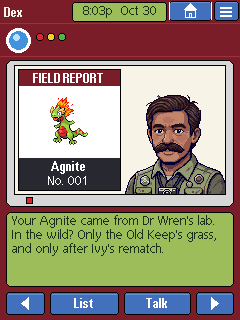
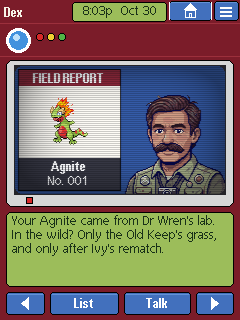
Dex plan: the upper screen is a TV, and the marks are diamonds
The owner's decisions on the design; nothing is built yet.

- The upper screen goes from cream to TV blue with a light CRT effect on
  that box alone: a soft sideways glow, scanlines, dark corners and a
  rounded tube. area512's filter was tried first and was too strong for
  the Palm font on this panel.
- A card on the screen keeps its own background, cream for now.
- Caught and seen are a solid and a hollow gold diamond, replacing the
  red and white ball.
- The speaker's backdrop is now TV blue. Mock-ups 2-8 are redrawn.

Claude-Session: https://claude.ai/code/session_01P3vCQf1U6gboGE6usdF48E

Changed region(s): [[0.0583, 0.1875, 0.9625, 0.625]]

diff --git a/tools/mock_dex.py b/tools/mock_dex.py
@@ -20,6 +20,10 @@ RED, RED_HI = (123, 28, 41), (156, 48, 60)
 GREY, BLACK, WHITE = (214, 215, 214), (0, 0, 0), (255, 255, 255)
 CREAM, GREEN, INK = (247, 243, 231), (156, 189, 90), (24, 48, 24)
 KEY, KEY_HI = (66, 112, 189), (99, 146, 214)
+# The upper screen is a TV (DEX_PLAN 2.4). Cards on it keep the cream as their own.
+TV, TV_INK, TV_DIM = (38, 70, 140), (244, 244, 236), (170, 192, 232)
+TV_SIL, TV_WELL = (12, 24, 60), (36, 36, 40)
+TV_RADIUS, TV_BLOOM, TV_SCAN, TV_VIGNETTE, TV_LIFT = 7, 0.30, 0.80, 0.35, (5, 6, 9)
 
 # The fixed geometry: x0, y0, x1, y1, inclusive.
 UPPER = (15, 66, 224, 193)   # 210 x 128: the tallest critter at 2x just fits
@@ -97,7 +101,8 @@ def bezel():
                 p[x, y] = CREAM if x < 30 else INK if x < 160 else WHITE
     d.line((0, 56, 239, 56), fill=RED_HI)
     chamfer(d, 6, 60, 233, 206, GREY, 4)
-    d.rectangle((14, 65, 225, 194), fill=CREAM, outline=BLACK)
+    d.rectangle((14, 65, 225, 194), fill=TV_WELL)
+    d.rectangle(UPPER, fill=TV)
     d.rectangle((26, 197, 32, 203), fill=(214, 41, 41), outline=BLACK)   # the light
     chamfer(d, 6, 212, 233, 286, GREEN, 3)
     for x0, x1, label in KEYS:
@@ -113,19 +118,45 @@ def bezel():
     return im, d
 
 
-def ball(d, x, y, caught):
-    d.ellipse((x, y, x + 9, y + 9), fill=WHITE, outline=BLACK)
+def mark(d, x, y, caught):
+    """The Dex's own marks, 11x11: caught is a solid gold diamond, seen a hollow one."""
+    pts = [(x + 5, y), (x + 10, y + 5), (x + 5, y + 10), (x, y + 5)]
     if caught:
-        d.pieslice((x, y, x + 9, y + 9), 180, 360, fill=(214, 41, 41), outline=BLACK)
-        d.line((x, y + 5, x + 9, y + 5), fill=BLACK)
-        d.rectangle((x + 4, y + 4, x + 5, y + 5), fill=WHITE)
+        d.polygon(pts, fill=(250, 196, 48), outline=TV_SIL)
+        d.line((x + 3, y + 4, x + 4, y + 3), fill=WHITE)   # a glint
+    else:
+        d.polygon(pts, fill=TV, outline=TV_INK)
 
 
-def silhouette(s, col=(64, 64, 64)):
+def silhouette(s, col=TV_SIL):
     a = s.getchannel("A").point(lambda v: 255 if v else 0)
     o = Image.new("RGBA", s.size, col + (255,))
     o.putalpha(a)
     return o
+
+
+def tube(im):
+    """The TV effect, on the finished upper screen only: a soft sideways glow,
+    dark odd rows and dark corners, each pixel reading only its own row. Then
+    the tube's rounded corners, with the dark well showing outside them."""
+    w, h = UPPER[2] - UPPER[0] + 1, UPPER[3] - UPPER[1] + 1
+    src = im.crop((UPPER[0], UPPER[1], UPPER[2] + 1, UPPER[3] + 1))
+    a, out = src.load(), Image.new("RGB", (w, h))
+    o = out.load()
+    for y in range(h):
+        scan = TV_SCAN if y % 2 else 1.0
+        dy = (y - (h - 1) / 2) / (h / 2)
+        for x in range(w):
+            dx = (x - (w - 1) / 2) / (w / 2)
+            f = scan * (1 - TV_VIGNETTE * min(dx ** 4 + dy ** 4, 1))
+            lf, rt = a[max(x - 1, 0), y], a[min(x + 1, w - 1), y]
+            o[x, y] = tuple(min(255, int((v + TV_BLOOM * (l + r) / 2 * (255 - v) / 255) * f + k))
+                            for v, l, r, k in zip(a[x, y], lf, rt, TV_LIFT))
+    mask = Image.new("L", (w, h), 0)
+    ImageDraw.Draw(mask).rounded_rectangle((0, 0, w - 1, h - 1), TV_RADIUS, fill=255)
+    d = ImageDraw.Draw(im)
+    d.rectangle(UPPER, fill=TV_WELL)
+    im.paste(out, UPPER[:2], mask)
 
 
 def lower_text(im, lines, x=None, w=None):
@@ -158,15 +189,15 @@ def list_screen(sheets):
             (4, "anoleaf", "Anoleaf", 2), (5, "agnidon", "???", 1)]
     y = UPPER[1] + 4
     for n, slug, name, state in rows:
-        PALM.draw(im, 19, y + 5, "%03d" % n)
+        PALM.draw(im, 19, y + 5, "%03d" % n, TV_INK)
         if slug:
             ic = sheets(slug).crop((0, 64, 24, 88))
             if state == 1:
                 ic = silhouette(ic)
             im.paste(ic, (44, y), ic)
-        PALM.draw(im, 74, y + 5, name)
+        PALM.draw(im, 74, y + 5, name, TV_INK)
         if state:
-            ball(d, 202, y + 7, state == 2)
+            mark(d, 202, y + 7, state == 2)
         y += 24
     d.rectangle((216, UPPER[1] + 1, 222, UPPER[3] - 1), fill=WHITE, outline=BLACK)
     d.rectangle((217, UPPER[1] + 2, 221, UPPER[1] + 19), fill=BLACK)
@@ -187,20 +218,20 @@ def entry(sheets, slug, x=0, state=2):
         s2 = s.resize((128, 128), Image.NEAREST)
         im.paste(s2, (UPPER[0], UPPER[1]), s2)
     else:
-        BIG.draw(im, 70, 115, "?")
+        BIG.draw(im, 70, 115, "?", TV_INK)
     tx = 147
-    BOLD.draw(im, tx, 74, "No. 001" if state == 2 else "No. 005" if state == 1 else "No. 006")
-    BOLD.draw(im, tx, 90, "Agnite" if state == 2 else "???")
+    BOLD.draw(im, tx, 74, "No. 001" if state == 2 else "No. 005" if state == 1 else "No. 006", TV_INK)
+    BOLD.draw(im, tx, 90, "Agnite" if state == 2 else "???", TV_INK)
     if state == 2:
-        d.rectangle((tx, 108, tx + 32, 123), fill=(224, 96, 48), outline=BLACK)
+        d.rectangle((tx, 108, tx + 32, 123), fill=(224, 96, 48), outline=TV_INK)
         BOLD.draw(im, tx + 4, 109, "FIRE", WHITE)
-        PALM.draw(im, tx, 128, "Lv 24 to")
-        PALM.draw(im, tx, 142, "Agnidon")
-        ball(d, tx, 161, True)
-        PALM.draw(im, tx + 13, 158, "caught")
-        PALM.draw(im, tx, 176, "Back" if x else "Front", (90, 90, 90))
+        PALM.draw(im, tx, 128, "Lv 24 to", TV_INK)
+        PALM.draw(im, tx, 142, "Agnidon", TV_INK)
+        mark(d, tx, 161, True)
+        PALM.draw(im, tx + 13, 158, "caught", TV_INK)
+        PALM.draw(im, tx, 176, "Back" if x else "Front", TV_DIM)
     else:
-        PALM.draw(im, tx, 108, "seen" if state == 1 else "never seen")
+        PALM.draw(im, tx, 108, "seen" if state == 1 else "never seen", TV_INK)
     return im
 
 
@@ -217,7 +248,7 @@ def speaker(im, d, colour, head):
     is on a card to his left, like a news report's. Returns the card's inside."""
     im.paste(colour, (UPPER[2] + 1 - colour.width, UPPER[3] + 1 - colour.height))
     x0, y0, x1, y1 = UPPER[0] + 3, UPPER[1] + 3, UPPER[2] - colour.width - 2, UPPER[3] - 3
-    d.rectangle((x0, y0, x1, y1), fill=WHITE, outline=BLACK)
+    d.rectangle((x0, y0, x1, y1), fill=CREAM, outline=BLACK)   # a card has its own background
     d.rectangle((x0 + 1, y0 + 1, x1 - 1, y0 + 16), fill=RED)
     BOLD.draw(im, (x0 + x1 - BOLD.width(head)) // 2, y0 + 2, head, WHITE)
     return x0 + 1, y0 + 17, x1 - 1, y1 - 1
@@ -241,7 +272,10 @@ def main():
     args = a.parse_args()
     sheets = Sheets(args.tuxemon)
     colour = Image.open(os.path.join(OUT, "speaker/colour_102.png")).convert("RGB")
-    save = lambda im, n: im.save(os.path.join(OUT, n), optimize=True)
+
+    def save(im, n):
+        tube(im)
+        im.save(os.path.join(OUT, n), optimize=True)
 
     im, d = bezel()                                        # opening
     box = speaker(im, d, colour, "YOUR DEX")

diff --git a/docs/DEX_PLAN.md b/docs/DEX_PLAN.md
@@ -13,11 +13,15 @@
 > subscreens too, so the speech bubble and portrait overlay of Coach and Guru
 > **aren't used**. The owner supplied the speaker's art. §9 has the decisions,
 > all made.
+>
+> **The owner's decision (2026-11-03):** the upper screen is a **TV**: TV blue,
+> with a light CRT effect on that box alone (§2.4). A card on it keeps its own
+> background.
 
 The mock-ups are in `docs/img/dex/`. They're 240×320, the device's size,
 drawn by `tools/mock_dex.py` (a design aid, not product code) with the
-firmware's Palm fonts and the Critters screens' colours. Mock-up 1 is from the
-first design and is still right.
+firmware's Palm fonts and the Critters screens' colours, with the §2.4 effect
+applied. Mock-up 1 is from the first design and is still right.
 
 | | | | |
 |---|---|---|---|
@@ -58,7 +62,7 @@ picture but are drawn our own way. It's a full-screen page like Study and Guru
 | **The title bar, as hardware** | 0–239, 0–23 | Same layout and dimensions as the system's; see below |
 | The top strip: a lens and three lights | 0–239, 24–59 | No text. "No. 001" and the counts moved into the subscreens |
 | The upper bezel, with one red light | 6–233, 60–206 | Grey, with clipped corners |
-| **The upper screen**: cream, in colour | 15–224, 66–193 (**210×128**) | |
+| **The upper screen**: a TV, blue, in colour (§2.4) | 15–224, 66–193 (**210×128**) | |
 | **The lower screen**: green, in one ink colour | 7–232, 213–285 (**226×73**) | Five lines of text |
 | **The four keys** | y 292–314 | **◀ List Talk ▶**, always these labels |
 
@@ -120,7 +124,7 @@ was also a confusing label, since it looks like a way out.
 3. **The list** (mock-up 3).
    - **Upper screen:** rows of 24 px, the icon's height, so **five fit on a
      page**. Each shows the number, the critter's 24×24 icon, the name, and a
-     mark: a filled capture ball for caught, a ring for seen. A Palm scroll bar
+     mark: a solid gold diamond for caught, a hollow one for seen (§2.4). A Palm scroll bar
      shows the position.
    - A seen critter's icon is its silhouette, and its name is ???. A
      never-seen critter has no icon.
@@ -144,8 +148,69 @@ was also a confusing label, since it looks like a way out.
 must fit in the three lines left under the category and the height and weight.
 His lines get all five.
 
-The capture ball and the casing are our drawings. No logo, name or artwork
+The caught and seen marks and the casing are our drawings. No logo, name or artwork
 from the reference picture or the games it shows is used.
+
+### 2.4 The upper screen is a TV
+
+The owner's decision, 2026-11-03: the cream box didn't feel enough like a
+screen. It's now TV blue with a light CRT effect, chosen from the mock-up
+comparison. The lower screen stays a green LCD, so the two read as different
+parts of the gadget.
+
+**The colours**
+
+| What | RGB |
+|---|---|
+| The screen's background | 38, 70, 140 |
+| Its text | 244, 244, 236 |
+| Its dim text ("Front", "Back") | 170, 192, 232 |
+| A seen critter's silhouette | 12, 24, 60 |
+| The dark well round the tube | 36, 36, 40 |
+| The caught mark: a solid diamond, 11×11, with a small white glint | Gold 250, 196, 48, outlined 12, 24, 60 |
+| The seen mark: the same diamond, hollow | Outlined 244, 244, 236 |
+
+**A card keeps its own background, never TV blue.** Today that's the speaker's
+news card (§3): cream (247, 243, 231) with black text, like a printed card held
+up in a broadcast. Any later card follows the same rule.
+
+**The effect** runs on the whole box, cards and portrait included, after
+LVGL has drawn it. Nothing is drawn differently for it.
+
+| Part | Amount |
+|---|---|
+| Sideways glow | Each pixel gains 30% of the average of its left and right neighbours, scaled by how much room it has left below 255 |
+| Scanlines | Every odd row of the box × 0.80 |
+| Dark corners | × (1 − 0.35 × min(dx⁴ + dy⁴, 1)), with dx and dy from −1 to 1 across the box |
+| Black lift | Add 5, 6, 9 to red, green, blue, after the above |
+
+The corners of the box are rounded at radius 7, with the well outside them.
+`tools/mock_dex.py` has the exact sums.
+
+**Where it runs.** In `flush_cb`, on the part of each strip inside the box,
+before the byte swap. Each pixel reads only its own row, so it needs no copy of
+the box and no history across LVGL's 40-row strips.
+
+- **A change in the box redraws the whole box,** or the glow leaves a seam at
+  the edge of a partial redraw. That's 26,880 pixels over about four strips,
+  **speed to be measured in D2**.
+- **The device and the simulator share the filter.** They have separate
+  `flush_cb`s, so it's one function both call, on only while the Dex is open.
+- **It isn't a copy of area512's filter** (`components/area512_hal/gfx/area512_crt.cpp`
+  in `emu-commits/area512`), which we tried first. Its colour fringes made the
+  Palm font hard to read, and its 3-pixel stripes would be about 1.7× coarser on
+  this panel (about 143 pixels per inch against the Cardputer's 241). It also
+  reads neighbouring rows, which would mean holding the box in memory (54 KB) or
+  keeping history across strips.
+
+**Critters on blue.** Measured on the 46 fronts, a median of 11% of a critter's
+edge pixels are under 1.5:1 contrast with the background. The worst are Anoleaf
+(87%) and Fluttaflap (71%), against 0% and 32% at worst on cream. **The mock-ups
+don't show either one's sprite at full size yet; look at them on the panel in D4.**
+
+**The strength is checked on the panel first.** The scanlines are the part most
+likely to look different on the real screen. At the start of D2, a test screen
+shows the box at two or three strengths for the owner to choose from.
 
 ## 3) The speaker
 
@@ -153,16 +218,16 @@ from the reference picture or the games it shows is used.
 dark-skinned man with a moustache in a khaki field vest, with badges and a
 camera. It's pixel art on a grid of about 9.9 px in a 1024 px picture, so it's
 really **102×102**. `docs/img/dex/speaker/colour_102.png` is that grid sampled
-back to its pixels, with the backdrop set to the screen's cream and 24 colours
+back to its pixels, with the backdrop set to the screen's TV blue and 24 colours
 left. **It's in colour by the owner's choice:** a one-ink portrait can't show a
-character who isn't light-skinned. It hasn't been edited by hand, and from now
+character who isn't light-skinned. Only its backdrop has been changed since, and from now
 on that PNG is the art: edit it directly, and don't sample it from the JPEG again.
 
 **His place, whenever he's talking** (mock-ups 2 and 8):
 
 - **Upper screen:** he stands **against the right side**, at 1×, 102×102, on
   the screen's bottom edge. What he's talking about is on a **card to his left,
-  like a news report's**: 103×122, with a red heading band.
+  like a news report's**: 103×122, cream with black text (its own background, §2.4), with a red heading band.
   - Opening: **YOUR DEX**, with the caught and seen counts.
   - On an entry: **FIELD REPORT**, with the critter's sprite at 1× and a caption
     band under it with its name and number. A seen critter shows its silhouette
@@ -300,6 +365,7 @@ the heap is given back, as they do for Study.
 | `firmware/main/monster_play.c`, `.h` | The marks, save version 4, and loading a version 3 save. |
 | `firmware/main/palm_icons.c` | `icon_dex`, from `tools/gen_dex_icon.py`. |
 | `firmware/main/palm_icons.c` | The speaker's portrait: an RGB565 image from a small generator, `tools/gen_dex_speaker.py`, which reads `colour_102.png` 1:1 and is checked in the `dex` gate. |
+| `firmware/main/lvgl_port.c`, `sim/sim_port.c` | Both `flush_cb`s call the one TV filter on the upper screen while the Dex is open (§2.4). |
 | `tools/mock_dex.py` | Draws the mock-ups. Not product code. |
 | `tools/mkgame.py` | Format 2.2: `DEXE` and `ICON`, the `"dex"` order, the description source, and the dump. |
 | `tools/game_region.json` | The `"dex"` order and the 14 written descriptions. |
@@ -344,14 +410,17 @@ the heap is given back, as they do for Study.
   descriptions), save version 4 with the marks, `make -C sim dex` for the
   marks, and the dumps.
 - **D2, the app.** The fixed bezel and keys, `dex.c` and the screens, the Games
-  icon, the smoke shots, and the Where search. His lines are placeholders.
+  icon, the smoke shots, and the Where search. His lines are placeholders. It
+  starts with the TV filter's test screen for the owner (§2.4), and measures a
+  full redraw of the box.
 - **D3, the speaker.** The portrait and the news card, the lines, their fit gate,
   and the measured heap.
 - **D4, the bench.** The owner's `[d]` items: the Dex opens from the folder;
   a caught critter shows in full after a save; a v3 save keeps its party in
   the Dex; the heap is unchanged after closing; ◀ ▶ are fast enough on the
   board; the keys are easy to hit; the portrait and the green clock read well on
-  the panel.
+  the panel; small text is readable through the TV effect; Anoleaf and
+  Fluttaflap hold up on the blue.
 
 Separately, and not part of the Dex: **the owner's new critters.** Built
 2026-11-01 (`tools/game_creatures/README.md`): `tools/mksheet.py` turns a
@@ -377,6 +446,17 @@ and 3 is still open: today they're only wild.
 - **The keys:** ◀ List Talk ▶, so caught-only is a second press of List and
   turning a sprite is a tap (§2.2).
 
+**Decided by the owner, 2026-11-03:**
+
+- **The upper screen is a TV:** TV blue, with the light CRT effect on that box
+  alone (§2.4; panel 4 of the comparison), rather than area512's filter as it is.
+- **A card on it has its own background,** not TV blue. The owner didn't name
+  the colour: the plan uses the old screen cream, to be changed if they prefer.
+
+- **The caught and seen marks are diamonds,** not a ball: the owner's call, because
+  a ball looked too much like existing intellectual property (§2.4). A caught
+  diamond is solid gold, and a seen one hollow.
+
 **Taken on the recommendations, the owner's word, 2026-11-02:**
 
 - **A critter seen but not caught** shows its silhouette, with ??? for everything
@@ -390,4 +470,4 @@ and 3 is still open: today they're only wild.
   older firmware handles: it skips the new sections, and an older save is
   upgraded.
 
-Nothing is open. Building starts at D1 (§8) when the owner asks for it.
+The only thing left to choose is the effect's strength, on the panel (§2.4). Building starts at D1 (§8) when the owner asks for it.
